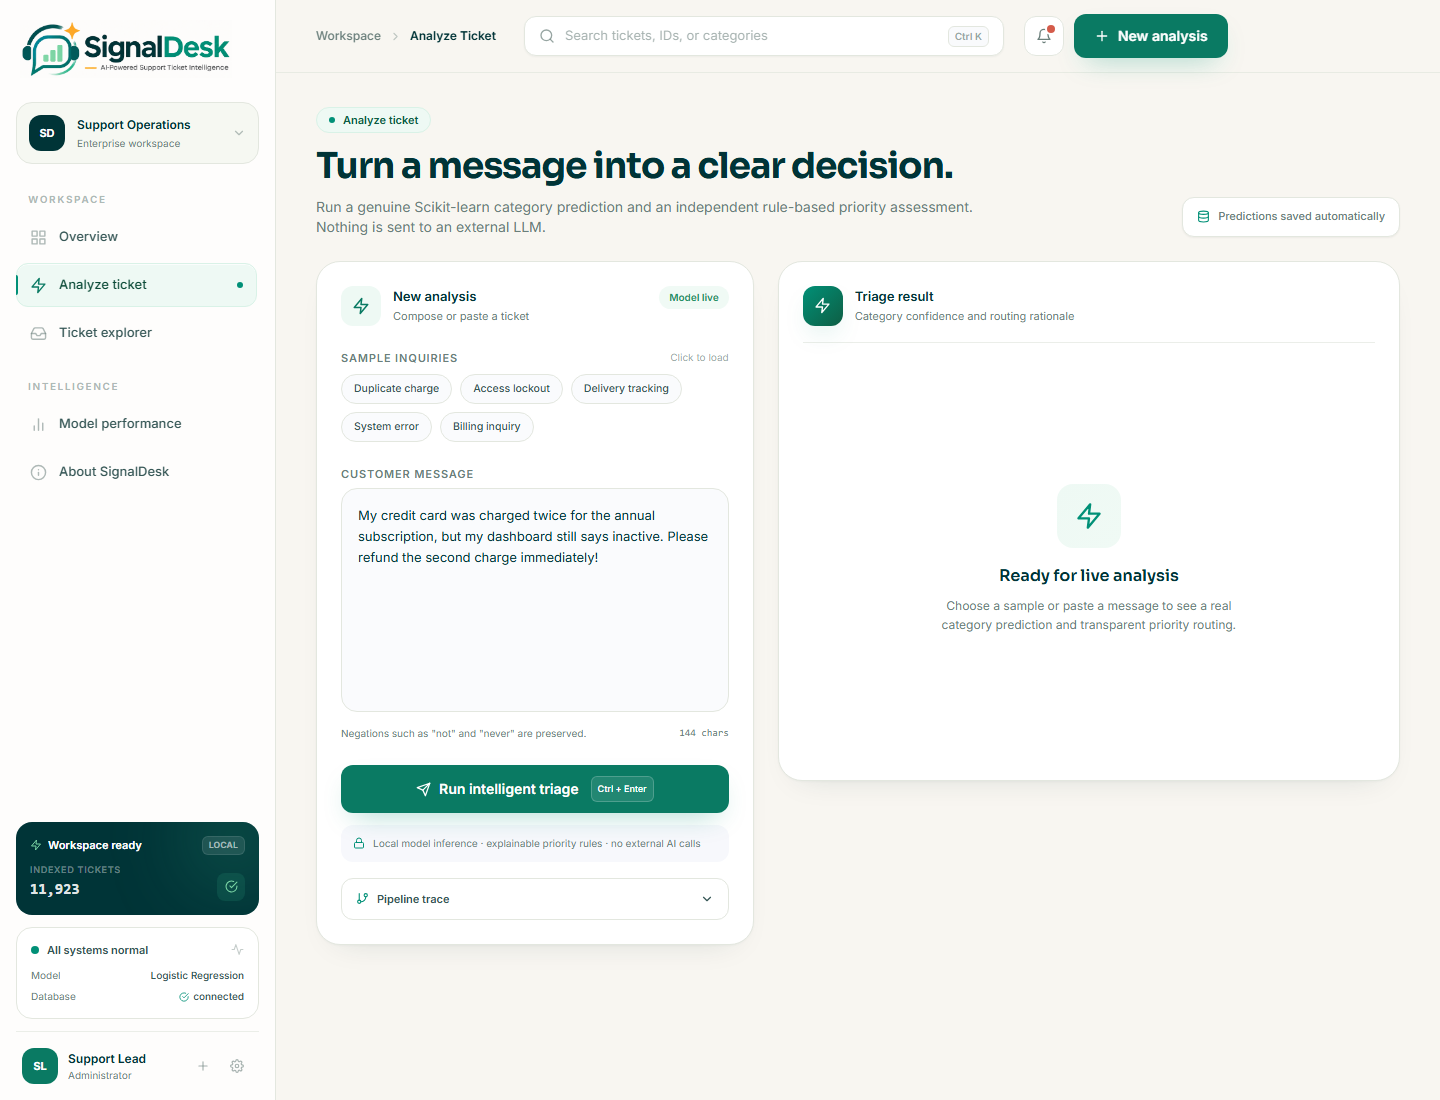
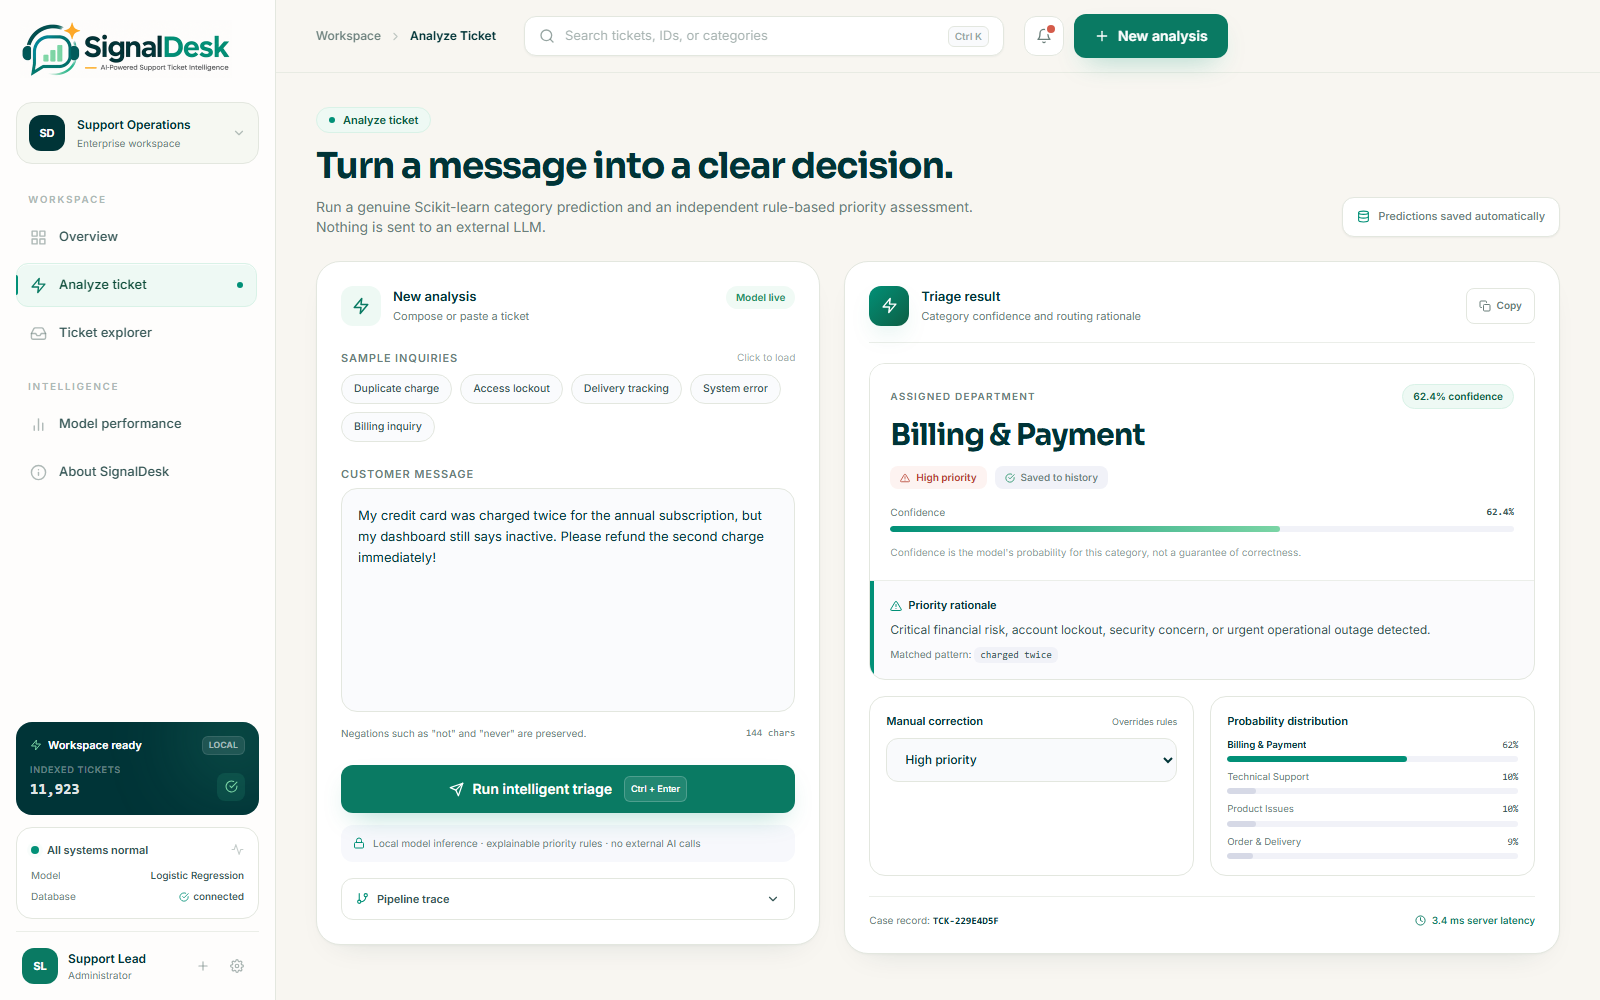
docs: showcase triage result screenshot

diff --git a/README.md b/README.md
@@ -44,11 +44,17 @@
 ## 🖼 Product Tour
 
 <p align="center">
-  <a href="docs/screenshots/overview.png"><img src="docs/screenshots/overview.png" width="49%" alt="Overview dashboard" /></a>
-  <a href="docs/screenshots/analyze.png"><img src="docs/screenshots/analyze.png" width="49%" alt="Analyze ticket page" /></a>
+  <a href="docs/screenshots/overview.png"><img src="docs/screenshots/overview.png" width="100%" alt="Overview dashboard" /></a>
 </p>
 <p align="center">
-  <sub><b>Overview</b> · live KPIs, filters, and workload trends &nbsp;&nbsp; <b>Analyze</b> · explainable triage</sub>
+  <sub><b>Overview</b> · live KPIs, filters, and workload trends</sub>
+</p>
+
+<p align="center">
+  <a href="docs/screenshots/analyze.png"><img src="docs/screenshots/analyze.png" width="100%" alt="Analyze ticket with prediction result" /></a>
+</p>
+<p align="center">
+  <sub><b>Analyze</b> · live category prediction, confidence, priority rationale, and probability distribution</sub>
 </p>
 
 <p align="center">
